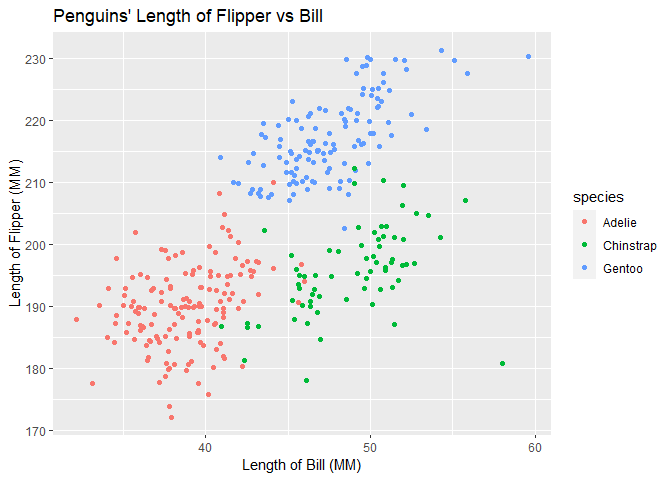
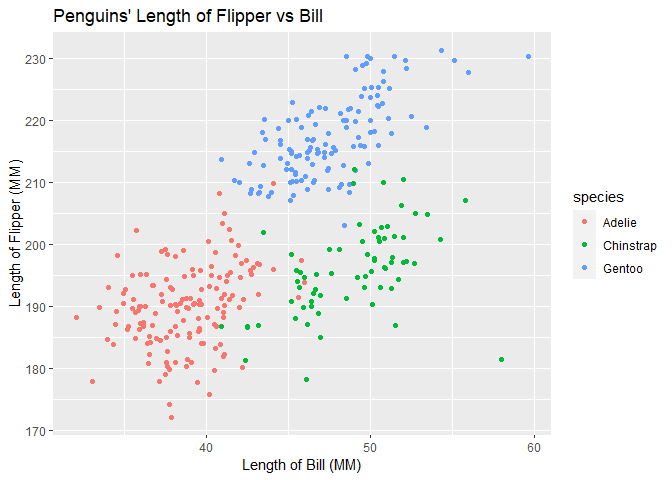
add result to ./Result folder

diff --git a/RMD_html/p8105_hw1_zl2974.md b/RMD_html/p8105_hw1_zl2974.md
@@ -18,8 +18,8 @@ str(df_1)
 ```
 
     ## tibble [10 x 4] (S3: tbl_df/tbl/data.frame)
-    ##  $ samp      : num [1:10] -0.216 0.63 -4.46 -0.124 1.343 ...
-    ##  $ samp_grt_0: logi [1:10] FALSE TRUE FALSE FALSE TRUE FALSE ...
+    ##  $ samp      : num [1:10] 0.13 0.741 1.148 -1.661 1.582 ...
+    ##  $ samp_grt_0: logi [1:10] TRUE TRUE TRUE FALSE TRUE FALSE ...
     ##  $ char      : chr [1:10] "t" "h" "e" "s" ...
     ##  $ fac       : Factor w/ 3 levels "a","b","c": 1 2 3 1 2 3 1 3 2 1
 
@@ -82,6 +82,31 @@ To make a scatterplot of flipper and bill’s lengh, first I made a
 plt\_data to collect return result of cleaned penguins dataset( which
 contains 19 missing data). And save the result under the same dictionary
 of RMD files.
+
+``` r
+plt_data = penguins %>%
+  filter(
+    !is.na(get("flipper_length_mm")),
+    !is.na(get("bill_length_mm"))
+  )%>%
+  select("flipper_length_mm","bill_length_mm","species")
+plt_flivbil <- ggplot(
+  data  = plt_data,
+  aes_string(x = "bill_length_mm",
+             y = "flipper_length_mm",
+             color = "species"
+             )) +
+  geom_jitter() +
+  labs(
+    y = "Length of Flipper (MM)",
+    x = "Length of Bill (MM)"
+  )+
+  ggtitle("Penguins' Length of Flipper vs Bill")
+ggsave(plot = plt_flivbil,
+filename = paste(here::here(),"Result/p8105_hw1_zl2974_flipper_v_bill.png",sep="/")
+)
+show(plt_flivbil)
+```
 
 ![](p8105_hw1_zl2974_files/figure-gfm/scatterplot-1.png)<!-- -->
 
